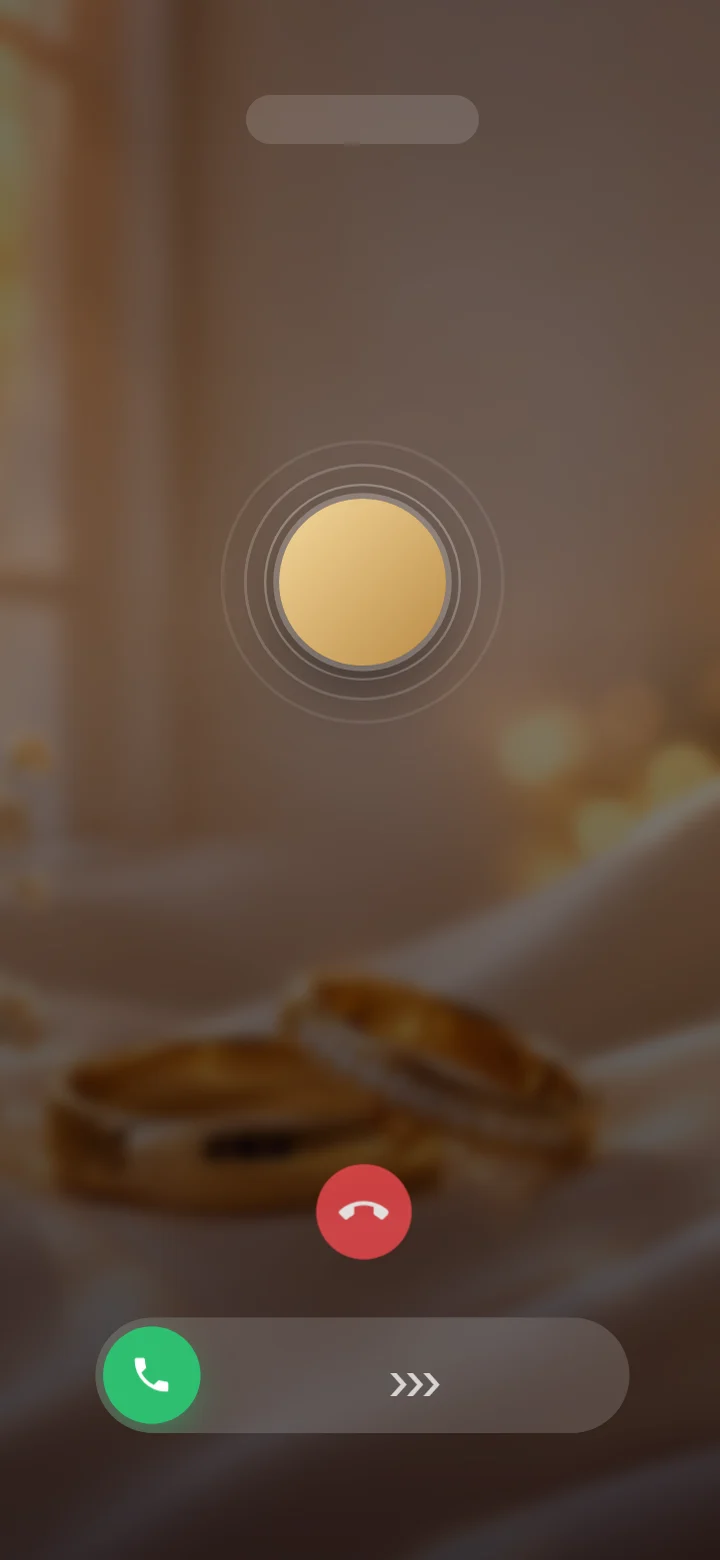
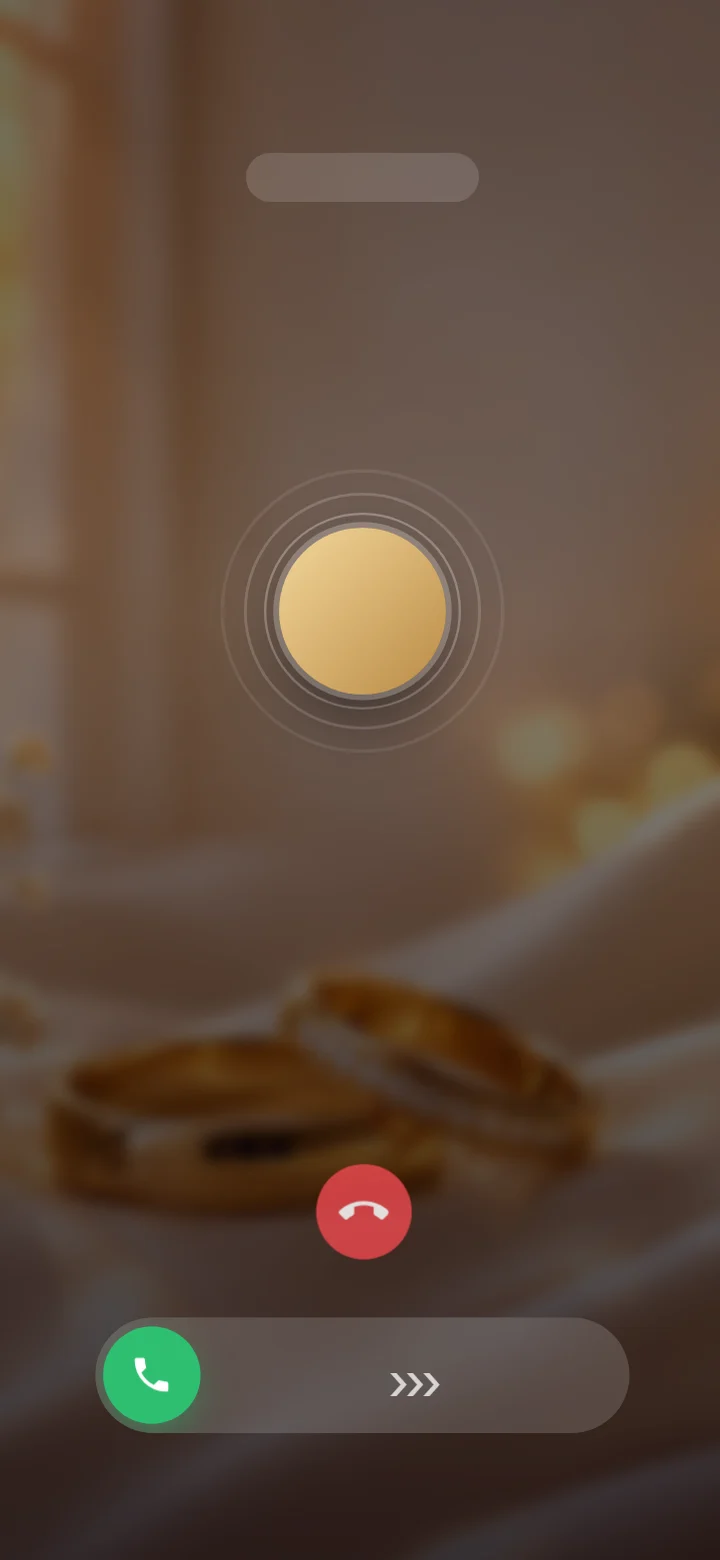
Galerie : un téléphone par écran sur mobile avec flèches, rangées par catégorie et nouveaux filtres à pictogrammes
- Mobile : un seul téléphone centré, format 9/18 (repères recalés), flèches ‹ › et compteur
- Retrait de « N univers », de la rangée « Nos coups de cœur » et du bouton « Tout voir »
- Filtres : barre segmentée ivoire et or avec pictogrammes, nombre de modèles ou « Bientôt » ; tuiles sur mobile
- Appel entrant : pastille descendue sous l'encoche

Changed region(s): [[0.3361, 0.3077, 0.6722, 0.4615], [0.3361, 0.0615, 0.6722, 0.1538]]

diff --git a/app/globals.css b/app/globals.css
@@ -84,10 +84,19 @@ body:has(.demo-exit) .bn-kicker,body:has(.demo-exit) .or-kicker{margin-top:44px}
 
 /* Shared phone gallery: the bezel is CSS, the screen art stays text-free. */
 .site .ph-gallery{width:100%;min-width:0;color:var(--ink)}
-.site .ph-filters{display:flex;gap:8px;overflow-x:auto;padding:8px 6vw 16px;scrollbar-width:none}
-.site .ph-filters::-webkit-scrollbar,.site .ph-rail::-webkit-scrollbar{display:none}
-.site .ph-filters button{flex:0 0 auto;border:1px solid var(--line);border-radius:999px;background:rgba(255,255,255,.58);color:var(--ink);font:500 .78rem/1.2 var(--f-ui);padding:10px 16px;cursor:pointer}
-.site .ph-filters button[aria-pressed=true]{background:#dfd0b2;border-color:#c2a875;color:#33291c}
+/* Catégories : barre segmentée en verre ivoire, pictogramme + libellé + nombre ; tuiles sur mobile */
+.site .ph-filters{display:flex;width:max-content;max-width:calc(100% - 40px);margin:6px auto 44px;padding:6px;gap:4px;border-radius:999px;background:linear-gradient(180deg,rgba(255,255,255,.78),rgba(250,244,232,.62));border:1px solid rgba(190,160,105,.32);box-shadow:0 18px 40px -26px rgba(80,58,28,.45),inset 0 1px 0 #fff;-webkit-backdrop-filter:blur(10px);backdrop-filter:blur(10px)}
+.site .ph-rail::-webkit-scrollbar{display:none}
+.site .ph-filters button{position:relative;display:flex;align-items:center;gap:9px;border:0;border-radius:999px;background:transparent;color:#6f6250;font:400 .82rem/1.2 var(--f-ui);letter-spacing:.02em;padding:11px 18px 11px 14px;cursor:pointer;transition:background .3s,color .3s,box-shadow .3s}
+.site .ph-filters button:hover{color:#33291c;background:rgba(255,255,255,.7)}
+.site .ph-filters button[aria-pressed=true]{color:#2f2517;background:linear-gradient(135deg,#f7ecd4,#e3cc9c 55%,#d4b57a);box-shadow:0 8px 18px -10px rgba(120,86,30,.7),inset 0 1px 0 rgba(255,255,255,.75)}
+.site .ph-ico{display:grid;place-items:center;width:30px;height:30px;border-radius:50%;background:rgba(201,170,112,.14);color:#a8843f;transition:background .3s,color .3s}
+.site .ph-ico svg{width:19px;height:19px}
+.site .ph-filters button[aria-pressed=true] .ph-ico{background:rgba(255,255,255,.6);color:#7d5b1f}
+.site .ph-n{min-width:22px;padding:3px 7px;border-radius:99px;background:rgba(120,95,55,.1);font-size:.68rem;font-weight:500;text-align:center;color:inherit}
+.site .ph-n.is-soon{font-size:.6rem;letter-spacing:.12em;text-transform:uppercase;opacity:.75}
+.site .ph-filters button[aria-pressed=true] .ph-n{background:rgba(255,255,255,.55)}
+.site .ph-filters button:focus-visible{outline:2px solid #b8955a;outline-offset:2px}
 .site .ph-section{margin:0 auto 48px;min-width:0;max-width:1280px}
 .site .ph-row-title{display:flex;align-items:baseline;justify-content:space-between;gap:12px;padding:0 clamp(20px,5vw,64px) 22px}
 .site .ph-row-title h3{margin:0;font:400 clamp(1.35rem,3vw,2rem)/1.15 var(--f-display)}
@@ -113,14 +122,40 @@ body:has(.demo-exit) .bn-kicker,body:has(.demo-exit) .or-kicker{margin-top:44px}
 .site .ph-selected{position:absolute;z-index:3;top:9px;left:50%;transform:translateX(-50%);max-width:90%;padding:5px 10px;border-radius:99px;background:#e8d4aa;color:#392d1c;font-size:.68rem;white-space:nowrap;box-shadow:0 3px 10px #0002}
 .site .ph-soon{padding-top:4px}.site .ph-soon-screen{aspect-ratio:9/19.5;border:1px dashed #c4b89f;border-radius:clamp(20px,5vw,30px);background:linear-gradient(145deg,#f7f2e8,#e9dfcc);display:flex;flex-direction:column;align-items:center;justify-content:center;gap:12px;color:#87734e}.site .ph-soon-screen span{font-size:2rem}
 .site .ph-view-all{text-align:center;padding:2px 0 24px}
-.site .ph-gallery.is-compact .ph-filters{padding:4px 0 12px}
+.site .ph-gallery.is-compact .ph-filters{margin:4px auto 24px}
 .site .ph-gallery.is-compact .ph-section{margin-bottom:32px}
 .site .ph-gallery.is-compact .ph-row-title{padding:0 0 16px}
 .site .ph-gallery.is-compact .ph-rail{padding:4px 4px 18px;gap:28px 20px}
 .site .ph-gallery.is-compact .ph-device{width:min(100%,164px);border-radius:27px;padding:5px}.site .ph-gallery.is-compact .ph-frame{inset:5px;border-radius:22px}
 .site .ph-gallery.is-compact .ph-model-name{font-size:1rem}
 @media(min-width:761px) and (max-width:1000px){.site .ph-rail{grid-template-columns:repeat(3,minmax(0,1fr))}}
-@media(max-width:760px){.site .ph-rail{display:flex;gap:16px;overflow-x:auto;overscroll-behavior-x:contain;scroll-snap-type:x mandatory;scroll-padding-inline:20px;padding:8px 20px 26px;touch-action:pan-x pan-y;-webkit-overflow-scrolling:touch}.site .ph-card{flex:0 0 min(58vw,230px);width:auto;max-width:none;margin:0;scroll-snap-align:start}.site .ph-device{width:100%}.site .ph-gallery.is-compact .ph-rail{display:flex;gap:14px}.site .ph-gallery.is-compact .ph-card{flex:0 0 min(44vw,180px)}.site .ph-gallery.is-compact .ph-device{width:100%}.site .ph-filters{padding-inline:20px}}
+.site .ph-rail-wrap{position:relative}
+.site .ph-arrow,.site .ph-count{display:none}
+/* Mobile : un seul téléphone par écran, plus court et plus large (9/18 au lieu de 9/19,5 : l'image est recadrée, --sy recale prénoms et sceaux), flèches de part et d'autre */
+@media(max-width:760px){
+  .site .ph-rail{display:flex;gap:0;overflow-x:auto;overscroll-behavior-x:contain;scroll-snap-type:x mandatory;padding:8px 0 10px;touch-action:pan-x pan-y;-webkit-overflow-scrolling:touch;scrollbar-width:none}
+  .site .ph-rail::-webkit-scrollbar{display:none}
+  .site .ph-card{flex:0 0 100%;width:100%;max-width:none;margin:0;scroll-snap-align:center;scroll-snap-stop:always}
+  .site .ph-device{width:min(64vw,270px);aspect-ratio:9/18;--sy:1.0833}
+  .site .ph-gallery.is-compact .ph-rail{display:flex;gap:0}
+  .site .ph-gallery.is-compact .ph-card{flex:0 0 100%}
+  .site .ph-gallery.is-compact .ph-device{width:min(56vw,230px)}
+  .site .ph-soon-screen{width:min(64vw,270px);margin-inline:auto;aspect-ratio:9/18}
+  .site .ph-filters{display:grid;grid-template-columns:repeat(4,minmax(0,1fr));width:auto;max-width:none;margin:4px 16px 34px;padding:6px;gap:4px;border-radius:24px}
+  .site .ph-filters button{flex-direction:column;justify-content:flex-start;gap:6px;padding:10px 4px 9px;border-radius:18px;font-size:.68rem;line-height:1.15;text-align:center}
+  .site .ph-ico{width:36px;height:36px}.site .ph-ico svg{width:21px;height:21px}
+  .site .ph-lbl{min-height:2.3em;display:flex;align-items:center}
+  .site .ph-n{padding:2px 6px;font-size:.6rem}.site .ph-n.is-soon{font-size:.5rem;letter-spacing:.06em}
+  .site .ph-arrow{display:grid;place-items:center;position:absolute;z-index:4;top:calc(8px + min(64vw,270px) * 1);translate:0 -50%;width:44px;height:44px;padding:0;border-radius:50%;border:1px solid rgba(176,144,79,.45);background:rgba(255,252,246,.92);color:#5a4630;font:300 2rem/1 var(--f-ui);box-shadow:0 8px 20px -8px rgba(60,45,25,.45);cursor:pointer;transition:opacity .25s}
+  .site .ph-gallery.is-compact .ph-arrow{top:calc(8px + min(56vw,230px) * 1)}
+  .site .ph-arrow span{margin-top:-4px}
+  .site .ph-arrow.prev{left:10px}.site .ph-arrow.next{right:10px}
+  .site .ph-arrow:disabled{opacity:0;pointer-events:none}
+  .site .ph-arrow.next:not(:disabled){animation:ph-nudge 2.4s ease-in-out infinite}
+  .site .ph-count{display:block;margin:0 0 18px;text-align:center;font:500 .72rem/1 var(--f-ui);letter-spacing:.2em;color:#9a8661}
+}
+@keyframes ph-nudge{0%,70%,100%{transform:translateX(0)}80%{transform:translateX(4px)}90%{transform:translateX(-1px)}}
+@media(prefers-reduced-motion:reduce){.site .ph-arrow{animation:none!important}}
 @media(prefers-reduced-motion:reduce){.site .ph-device{transition:none!important}.site .ph-card:hover .ph-device,.site .ph-card.is-selected .ph-device{transform:none}}
 .lang-switch button:focus-visible{outline:2px solid var(--accent);outline-offset:2px}
 .gl-nav-r{display:flex;align-items:center;gap:10px}

diff --git a/components/TemplateRows.tsx b/components/TemplateRows.tsx
@@ -1,6 +1,6 @@
 "use client";
 
-import { useState } from "react";
+import { useEffect, useRef, useState } from "react";
 import PhoneTemplate from "@/components/PhoneTemplate";
 import { useT } from "@/components/I18n";
 import { CATEGORIES, TEMPLATES, type CategoryId, type TemplateId } from "@/lib/types";
@@ -17,16 +17,13 @@ export default function TemplateRows({ names, lang, compact = false, selected, o
 }) {
   const t = useT();
   const [filter, setFilter] = useState<CategoryId | "all">("all");
-  const [showAll, setShowAll] = useState(false);
   const ordered = (ids: TemplateId[]) => selected && ids.includes(selected) ? [selected, ...ids.filter((id) => id !== selected)] : ids;
   const idsFor = (category: CategoryId) => ordered(TEMPLATES.filter((item) => (item.categories as readonly CategoryId[]).includes(category)).map((item) => item.id));
-  const featured = ordered(TEMPLATES.filter((item) => item.featured).map((item) => item.id));
-  const remaining = (category: CategoryId) => idsFor(category).filter((id) => !featured.includes(id));
 
   const row = (title: string, ids: TemplateId[], key: string) => (
     <section className="ph-section" key={key} aria-label={title}>
       <div className="ph-row-title"><h3>{title}</h3><span>{t.gallery.modelCount(ids.length)}</span></div>
-      <div className="ph-rail">
+      <Rail count={ids.length} labels={{ prev: t.gallery.prev, next: t.gallery.next, position: t.gallery.position }}>
         {ids.map((id) => <article key={id} className={`ph-card${selected === id ? " is-selected" : ""}`}>
           {selected === id && <span className="ph-selected">{t.editor.yourModel}</span>}
           <button className="ph-preview" type="button" aria-label={t.common.demoOf(t.templates[id].name)} onClick={() => { onSelect?.(id); onPreview(id); }}>
@@ -41,20 +38,61 @@ export default function TemplateRows({ names, lang, compact = false, selected, o
         {ids.length === 0 && <>
           {[0, 1].map((n) => <div className="ph-card ph-soon" key={n}><div className="ph-soon-screen"><span aria-hidden="true">✦</span><strong>{t.gallery.soon}</strong></div><span className="ph-model-name">{t.gallery.soon}</span></div>)}
         </>}
-      </div>
+      </Rail>
     </section>
   );
 
+  // « Tout » : une rangée par catégorie (plus de « coups de cœur », qui répétaient les modèles). Sinon la seule catégorie choisie.
+  const shown = filter === "all" ? CATEGORIES.map(({ id }) => id) : [filter];
+  const total = TEMPLATES.length;
   return <div className={`ph-gallery${compact ? " is-compact" : ""}`}>
-    <div className="ph-filters" role="group" aria-label={t.gallery.rows.featured}>
-      <button type="button" aria-pressed={filter === "all"} onClick={() => { setFilter("all"); setShowAll(false); }}>{t.gallery.filters.all}</button>
-      {CATEGORIES.map(({ id }) => <button key={id} type="button" aria-pressed={filter === id} onClick={() => { setFilter(id); setShowAll(false); }}>{t.gallery.filters[id]}</button>)}
+    <div className="ph-filters" role="group" aria-label={t.gallery.filtersLabel}>
+      <button type="button" aria-pressed={filter === "all"} onClick={() => setFilter("all")}>
+        <span className="ph-ico" aria-hidden="true">{ICONS.all}</span><span className="ph-lbl">{t.gallery.filters.all}</span><span className="ph-n">{total}</span>
+      </button>
+      {CATEGORIES.map(({ id }) => {
+        const n = idsFor(id).length;
+        return <button key={id} type="button" aria-pressed={filter === id} onClick={() => setFilter(id)}>
+          <span className="ph-ico" aria-hidden="true">{ICONS[id]}</span><span className="ph-lbl">{t.gallery.filters[id]}</span><span className={`ph-n${n ? "" : " is-soon"}`}>{n || t.gallery.soon}</span>
+        </button>;
+      })}
     </div>
-    {filter === "all" ? <>
-      {showAll
-        ? <>{row(t.gallery.rows.mariage, idsFor("mariage"), "all-models")}{row(t.gallery.rows.anniversaire, idsFor("anniversaire"), "anniversaire")}{row(t.gallery.rows["baby-shower"], idsFor("baby-shower"), "baby-shower")}</>
-        : <>{row(t.gallery.rows.featured, featured, "featured")}{row(t.gallery.rows.mariage, remaining("mariage"), "mariage")}{row(t.gallery.rows.anniversaire, idsFor("anniversaire"), "anniversaire")}{row(t.gallery.rows["baby-shower"], idsFor("baby-shower"), "baby-shower")}</>}
-      {!compact && <div className="ph-view-all"><button type="button" className="btn-s ghost" aria-expanded={showAll} onClick={() => setShowAll((value) => !value)}>{showAll ? t.gallery.collapse : t.gallery.viewAll}</button></div>}
-    </> : row(t.gallery.rows[filter], idsFor(filter), filter)}
+    {shown.map((id) => row(t.gallery.rows[id], idsFor(id), id))}
+  </div>;
+}
+
+/** Pictogrammes des catégories (trait fin, couleur du texte). */
+const svg = (d: React.ReactNode) => <svg viewBox="0 0 24 24" fill="none" stroke="currentColor" strokeWidth="1.4" strokeLinecap="round" strokeLinejoin="round">{d}</svg>;
+const ICONS: Record<CategoryId | "all", React.ReactNode> = {
+  all: svg(<><path d="M12 3c.6 4.2 1.8 5.4 6 6-4.2.6-5.4 1.8-6 6-.6-4.2-1.8-5.4-6-6 4.2-.6 5.4-1.8 6-6z" /><path d="M19 15.5c.25 1.6.75 2.1 2.3 2.3-1.55.25-2.05.75-2.3 2.3-.25-1.55-.75-2.05-2.3-2.3 1.55-.2 2.05-.7 2.3-2.3z" /></>),
+  mariage: svg(<><circle cx="9" cy="14" r="5.2" /><circle cx="15" cy="14" r="5.2" /><path d="M13.2 6.2 15 4l1.8 2.2L15 8.4z" /></>),
+  anniversaire: svg(<><path d="M4.5 20.5h15M5.5 20.5v-6.5a1.5 1.5 0 0 1 1.5-1.5h10a1.5 1.5 0 0 1 1.5 1.5v6.5" /><path d="M5.5 16.2c1.2 1 2.4 1 3.6 0s2.4-1 3.6 0 2.4 1 3.6 0 1.8-.9 2.2-.4" /><path d="M12 12.5V9.3" /><path d="M12 4.2c.9 1 1.2 1.8.9 2.5a1 1 0 0 1-1.8 0c-.3-.7 0-1.5.9-2.5z" /></>),
+  "baby-shower": svg(<><path d="M10 4.5h4M10.5 4.5V7M13.5 4.5V7" /><path d="M9 7h6l.6 2.2a4 4 0 0 1 .4 1.8v8a2.5 2.5 0 0 1-2.5 2.5h-3A2.5 2.5 0 0 1 8 19v-8a4 4 0 0 1 .4-1.8z" /><path d="M8 13h3M8 16h2" /></>),
+};
+/** Rangée de modèles. Sur mobile : un téléphone par écran, glissement au doigt et flèches précédent / suivant. */
+function Rail({ count, labels, children }: { count: number; labels: { prev: string; next: string; position: (i: number, n: number) => string }; children: React.ReactNode }) {
+  const ref = useRef<HTMLDivElement>(null);
+  const [index, setIndex] = useState(0);
+  useEffect(() => {
+    const el = ref.current;
+    if (!el) return;
+    const onScroll = () => setIndex(Math.round(el.scrollLeft / Math.max(1, el.clientWidth)));
+    el.addEventListener("scroll", onScroll, { passive: true });
+    return () => el.removeEventListener("scroll", onScroll);
+  }, []);
+  const go = (dir: number) => {
+    const el = ref.current;
+    if (!el) return;
+    const reduce = matchMedia("(prefers-reduced-motion: reduce)").matches;
+    el.scrollTo({ left: (index + dir) * el.clientWidth, behavior: reduce ? "auto" : "smooth" });
+  };
+  const nav = count > 1;
+  return <div className="ph-rail-wrap">
+    <div className="ph-rail" ref={ref}>{children}</div>
+    {nav && <>
+      <button type="button" className="ph-arrow prev" aria-label={labels.prev} disabled={index <= 0} onClick={() => go(-1)}><span aria-hidden="true">‹</span></button>
+      <button type="button" className="ph-arrow next" aria-label={labels.next} disabled={index >= count - 1} onClick={() => go(1)}><span aria-hidden="true">›</span></button>
+      <p className="ph-count" aria-live="polite">{labels.position(Math.min(index, count - 1) + 1, count)}</p>
+    </>}
   </div>;
 }

diff --git a/lib/types.ts b/lib/types.ts
@@ -24,7 +24,7 @@ export const TEMPLATES = [
   { id: "cygnes", name: "Lac aux cygnes", tagline: "Enveloppe en relief, la carte s'envole dans une pluie de pétales", cover: "/img/1b-scene.webp", categories: ["mariage"], featured: true, phone: { screen: "/img/phone-cygnes.webp", names: { top: 75, size: 12 }, hint: { top: 83 }, seal: { top: 47.4, left: 49.6, d: 21, ink: "#f6dcae" }, ink: "#6e1a30", font: "script" } },
   { id: "nuit-doree", name: "Nuit dorée", tagline: "Deux portes s'ouvrent dans un éclat de lumière et de poussière d'or", cover: "/img/2b-scene.webp", categories: ["mariage"], featured: true, phone: { screen: "/img/phone-nuit-doree.webp", names: { top: 64, size: 12 }, hint: { top: 70.5 }, seal: { top: 45.8, left: 49, d: 21, ink: "#8a6534" }, ink: "#ffe9bf", font: "script" } },
   { id: "jardin-nuit", name: "Le jardin secret", tagline: "Un portail fleuri s'ouvre dans la lumière du jour, oiseaux et papillons vous font entrer au jardin", cover: "/img/jardin-portail.webp", categories: ["mariage"], featured: true, phone: { screen: "/img/phone-jardin-nuit.webp", names: { top: 83.3, size: 12 }, hint: { top: 89 }, seal: { top: 46.3, left: 48.5, d: 15, ink: "#8a6534" }, ink: "#2E3B26", font: "script" } },
-  { id: "appel", name: "Appel entrant", tagline: "Vos invités reçoivent votre appel, décrochent, et la conversation commence", cover: "/img/appel-fond-defaut.webp", categories: ["mariage"], featured: false, phone: { screen: "/img/phone-appel.webp", names: { top: 46.6, size: 11 }, hint: { top: 8.4 }, seal: { top: 36, left: 50, d: 23, ink: "#3A2410" }, ink: "#fff8ef", font: "serif" } },
+  { id: "appel", name: "Appel entrant", tagline: "Vos invités reçoivent votre appel, décrochent, et la conversation commence", cover: "/img/appel-fond-defaut.webp", categories: ["mariage"], featured: false, phone: { screen: "/img/phone-appel.webp", names: { top: 48.6, size: 11 }, hint: { top: 12.5 }, seal: { top: 38, left: 50, d: 23, ink: "#3A2410" }, ink: "#fff8ef", font: "serif" } },
   { id: "boule-neige", name: "Le domaine", tagline: "Une clé ancienne ouvre le portail, puis une promenade en plein jour dans un domaine de charme", cover: "/img/domaine-portail.webp", categories: ["mariage"], featured: true, phone: { screen: "/img/phone-boule-neige.webp", names: { top: 82, size: 12 }, hint: { top: 89 }, seal: null, ink: "#5a4630", font: "script" } },
   { id: "origami", name: "Origami", tagline: "Une enveloppe de papier scellée de cire dorée s'ouvre dans la lumière, chaque section est un pliage, la réponse part en avion", cover: "/img/origami-grues.webp", categories: ["mariage"], featured: false, phone: { screen: "/img/phone-origami.webp", names: { top: 66, size: 12 }, hint: { top: 74 }, seal: null, ink: "#5a3d26", font: "script" } },
   { id: "velours", name: "Éclat de velours", tagline: "Un sceau s'illumine, l'enveloppe s'ouvre et la soirée se dévoile", cover: "/img/velours-enveloppe.webp", categories: ["mariage"], featured: false, phone: { screen: "/img/phone-velours.webp", names: { top: 82, size: 12 }, hint: { top: 89 }, seal: null, ink: "#f3dcb4", font: "script" } },

diff --git a/components/PhoneTemplate.tsx b/components/PhoneTemplate.tsx
@@ -20,9 +20,9 @@ export default function PhoneTemplate({ template, names, lang, compact = false }
       <div className={`ph-frame${"scrim" in model.phone && model.phone.scrim ? " has-scrim" : ""}`}>
         <img className="ph-screen" src={image} alt="" loading="lazy" onError={() => setImage(model.cover)} />
         <span className="ph-island" aria-hidden="true" />
-        {model.phone.seal && <span className="ph-seal" aria-hidden="true" style={{ top: `${model.phone.seal.top}%`, left: `${model.phone.seal.left}%`, width: `${model.phone.seal.d}%`, color: model.phone.seal.ink, "--d": model.phone.seal.d } as CSSProperties}>{initials}</span>}
-        <span className={`ph-names ${model.phone.font}`} style={{ top: `${model.phone.names.top}%`, "--name-scale": model.phone.names.size, color: model.phone.ink } as CSSProperties}>{names[0]} <i>&amp;</i> {names[1]}</span>
-        <span className="ph-hint" style={{ top: `${model.phone.hint.top}%`, color: model.phone.ink }}>{t.gallery.hints[template]}</span>
+        {model.phone.seal && <span className="ph-seal" aria-hidden="true" style={{ top: `calc(50% + (${model.phone.seal.top} - 50) * var(--sy, 1) * 1%)`, left: `${model.phone.seal.left}%`, width: `${model.phone.seal.d}%`, color: model.phone.seal.ink, "--d": model.phone.seal.d } as CSSProperties}>{initials}</span>}
+        <span className={`ph-names ${model.phone.font}`} style={{ top: `calc(50% + (${model.phone.names.top} - 50) * var(--sy, 1) * 1%)`, "--name-scale": model.phone.names.size, color: model.phone.ink } as CSSProperties}>{names[0]} <i>&amp;</i> {names[1]}</span>
+        <span className="ph-hint" style={{ top: `calc(50% + (${model.phone.hint.top} - 50) * var(--sy, 1) * 1%)`, color: model.phone.ink }}>{t.gallery.hints[template]}</span>
         <span className="ph-home-indicator" aria-hidden="true" />
       </div>
     </div>

diff --git a/lib/i18n/site-fr.ts b/lib/i18n/site-fr.ts
@@ -35,9 +35,11 @@ export const fr = {
   },
   gallery: {
     filters: { all: "Tout", mariage: "Mariage et fiançailles", anniversaire: "Anniversaire", "baby-shower": "Baby shower" },
-    rows: { featured: "Nos coups de cœur", mariage: "Mariage et fiançailles", anniversaire: "Anniversaire", "baby-shower": "Baby shower" },
-    viewAll: "Tout voir",
-    collapse: "Réduire",
+    rows: { mariage: "Mariage et fiançailles", anniversaire: "Anniversaire", "baby-shower": "Baby shower" },
+    filtersLabel: "Catégories de modèles",
+    prev: "Modèle précédent",
+    next: "Modèle suivant",
+    position: (i: number, n: number) => `${i} / ${n}`,
     soon: "Bientôt",
     modelCount: (n: number) => `${n} modèle${n > 1 ? "s" : ""}`,
     phoneAria: (name: string, a: string, b: string) => `Aperçu du modèle ${name} pour ${a} et ${b}`,
@@ -70,7 +72,6 @@ export const fr = {
     rsvpLive: "Réponses",
     rsvpDemo: [{ n: "Marie", m: "Oui, avec joie · 2 personnes" }, { n: "Karim", m: "Oui ! On sera là" }, { n: "Inès", m: "Oui · 3 personnes" }],
     marquee: ["Lac aux cygnes", "Nuit dorée", "Le jardin secret", "Appel entrant", "Date à gratter", "Réponses en direct"],
-    worlds: (n: number) => `${n} univers`,
     chooseTitle: "Choisissez",
     chooseGold: "votre soirée",
     createMine: "Créer la mienne",

diff --git a/lib/i18n/site-en.ts b/lib/i18n/site-en.ts
@@ -36,9 +36,11 @@ export const en: SiteDict = {
   },
   gallery: {
     filters: { all: "All", mariage: "Weddings and engagements", anniversaire: "Birthday", "baby-shower": "Baby shower" },
-    rows: { featured: "Our favourites", mariage: "Weddings and engagements", anniversaire: "Birthday", "baby-shower": "Baby shower" },
-    viewAll: "See all",
-    collapse: "Show less",
+    rows: { mariage: "Weddings and engagements", anniversaire: "Birthday", "baby-shower": "Baby shower" },
+    filtersLabel: "Design categories",
+    prev: "Previous design",
+    next: "Next design",
+    position: (i: number, n: number) => `${i} / ${n}`,
     soon: "Coming soon",
     modelCount: (n) => `${n} design${n > 1 ? "s" : ""}`,
     phoneAria: (name, a, b) => `${name} design preview for ${a} and ${b}`,
@@ -71,7 +73,6 @@ export const en: SiteDict = {
     rsvpLive: "Replies",
     rsvpDemo: [{ n: "Marie", m: "Yes, with joy · 2 guests" }, { n: "Karim", m: "Yes! We'll be there" }, { n: "Inès", m: "Yes · 3 guests" }],
     marquee: ["Swan Lake", "Golden Night", "The Secret Garden", "Incoming Call", "Scratch-off date", "Live replies"],
-    worlds: (n) => `${n} worlds`,
     chooseTitle: "Choose",
     chooseGold: "your evening",
     createMine: "Create mine",

diff --git a/app/HomeClient.tsx b/app/HomeClient.tsx
@@ -168,7 +168,7 @@ export default function HomeClient({publicPromo}:{publicPromo?:{code:string;labe
       </div>
 
       <section id="gl-hz" className="gl-hz">
-        <div className="gl-hz-head"><div className="gl-kicker">{h.worlds(TEMPLATES.length)}</div><h2>{h.chooseTitle} <span className="gold-text">{h.chooseGold}</span></h2></div>
+        <div className="gl-hz-head"><h2>{h.chooseTitle} <span className="gold-text">{h.chooseGold}</span></h2></div>
         <TemplateRows names={["Léa", "Samuel"]} lang={lang} onPreview={setDemo} onCreate={(id, event) => { if (event.metaKey || event.ctrlKey || event.shiftKey || event.button !== 0) return; celebrate(`/creer?t=${id}`)(event); }} />
       </section>
 

diff --git a/CLAUDE.md b/CLAUDE.md
@@ -104,7 +104,7 @@ Propriétaire : Glad (francophone, veut des retours honnêtes et des listes à p
 8. **Espace administrateur** (`/admin`, connexion par code reçu par e-mail, tableau de bord, statistiques de visites, invitations, prix et codes promo, modèles, RGPD) : étapes 1 à 4 faites (commits `10b5e8e`, `6b47c94`, `15e7a2c`, puis étape 4 en cours de validation), étape 5 restante. Cahier des charges dans `docs/admin.md`, consignes dans `AGENTS.md`. Étape 4 : les variables Cloudflare Analytics décrites ci-dessus restent à configurer pour afficher les statistiques réelles.
 9. ✅ **Liste des invités en PDF** (règle d'accès unique `pdfAllowed` dans `lib/payment.ts` : payée, offerte, accordée, **ou publiée tant que les paiements sont désactivés**) : téléchargement dans l'espace, accès si invitation payée/offerte ou PDF offert depuis l'admin, génération locale dans le navigateur, thèmes et textes FR/EN. Les messages arabes sont façonnés puis réordonnés avec l'algorithme bidi avant l'incorporation de la police Noto Naskh. Cahier des charges : `docs/pdf-invites.md`. Migration `009_pdf.sql` à appliquer dans Supabase après `008_admin_clients.sql` et avant le déploiement. Les 36 variantes synthétiques (6 modèles × 2 langues × 0/5/300 réponses) passent ; le scénario arabe génère et relit un PDF valide. Faire valider visuellement le rendu et l'accès par Glad. Aucun push effectué.
 
-10. **Galerie « téléphones » et catégories** (validé avec Glad le 7 nov. 2026) : affichage partagé sur l'accueil et dans l'éditeur via `components/PhoneTemplate.tsx` et `components/TemplateRows.tsx`. Cadre dessiné en CSS, écrans sans texte dans `public/img/phone-<id>.webp` (sources conservées dans `images-source/galerie/`), prénoms/consignes en vrai texte FR/EN ; rangées filtrables, grille de 4 modèles par ligne sur ordinateur (3 sur tablette, carrousel horizontal au doigt sur mobile, le téléphone suivant dépasse sur le côté) et « Bientôt » pour les catégories sans modèle. « Tout » affiche les coups de cœur puis les modèles mariage restants sans répétition ; « Tout voir » ouvre le catalogue complet. Cahier des charges : `docs/galerie-telephones.md`. Pour tout nouveau modèle, fournir aussi un écran téléphone. Retouches de Claude (7 nov. 2026) : cadre noir sobre avec îlot (pas de faux points d'état) ; initiales **gravées sur le vrai sceau de l'image**, sans disque ajouté (`phone.seal` = centre, diamètre et couleur mesurés sur l'image, `null` si le sceau a un motif comme velours) ; prénoms plus grands ; voile sombre `scrim` quand l'écran est clair (appel). État au 7 nov. 2026 : attente de validation visuelle par Glad ; `npm run typecheck` passe ; pas de commit/push avant validation.
+10. **Galerie « téléphones » et catégories** (validé avec Glad le 7 nov. 2026) : affichage partagé sur l'accueil et dans l'éditeur via `components/PhoneTemplate.tsx` et `components/TemplateRows.tsx`. Cadre dessiné en CSS, écrans sans texte dans `public/img/phone-<id>.webp` (sources conservées dans `images-source/galerie/`), prénoms/consignes en vrai texte FR/EN ; rangées filtrables, grille de 4 modèles par ligne sur ordinateur (3 sur tablette) ; sur mobile (≤ 760 px, demandé par Glad le 9 nov. 2026) **un seul téléphone par écran**, centré, format plus court et plus large (9/18 au lieu de 9/19,5, l'écran est recadré et `--sy` recale prénoms/sceaux/consignes), glissement au doigt + flèches ‹ › et compteur « 1 / 4 » (`Rail` dans `TemplateRows.tsx`) et « Bientôt » pour les catégories sans modèle. « Tout » affiche une rangée par catégorie (mariage, anniversaire, baby shower) ; plus de rangée « coups de cœur » ni de bouton « Tout voir », ni de sur-titre « N univers » (retirés à la demande de Glad le 9 nov. 2026, répétitifs). Filtres : barre segmentée en verre ivoire avec pictogrammes dessinés en SVG (`ICONS` dans `TemplateRows.tsx`), libellé et nombre de modèles (« Bientôt » si 0), onglet actif doré ; tuiles en grille de 4 sur mobile. Cahier des charges : `docs/galerie-telephones.md`. Pour tout nouveau modèle, fournir aussi un écran téléphone. Retouches de Claude (7 nov. 2026) : cadre noir sobre avec îlot (pas de faux points d'état) ; initiales **gravées sur le vrai sceau de l'image**, sans disque ajouté (`phone.seal` = centre, diamètre et couleur mesurés sur l'image, `null` si le sceau a un motif comme velours) ; prénoms plus grands ; voile sombre `scrim` quand l'écran est clair (appel). État au 7 nov. 2026 : attente de validation visuelle par Glad ; `npm run typecheck` passe ; pas de commit/push avant validation.
 
 11. **Refonte « Le domaine » / « The Estate »** (validée avec Glad le 9 nov. 2026, **développée par Claude, pas par Codex**) : remplace « Le monde miniature » (id `boule-neige` conservé, pas de migration). Ouverture clé + serrure baroque dorée sur mur ivoire, puis promenade photographique réaliste **de jour** dans un même domaine, palette neutre (ivoire, lin, beige, or mat, taupe ; ni bleu ni nuit). Cahier des charges et prompts d'images : `docs/le-domaine.md`. En attente des images de Glad dans `images-source/domaine/`.
 
